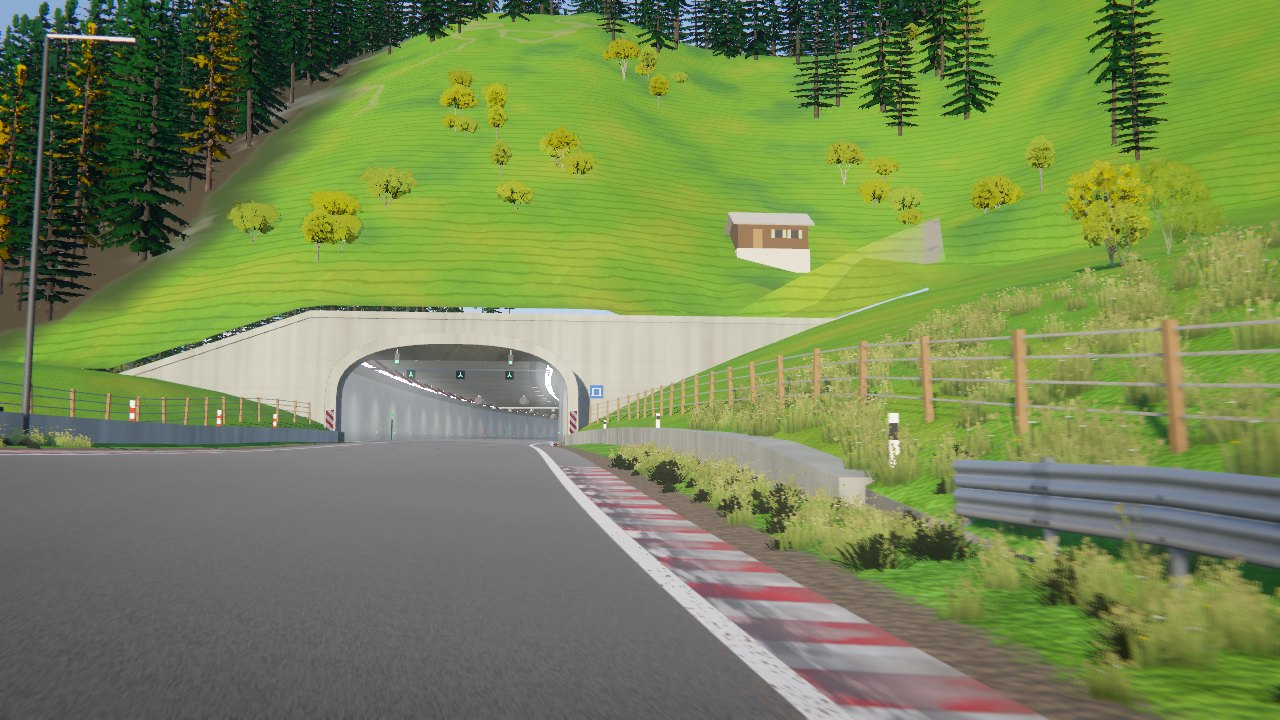
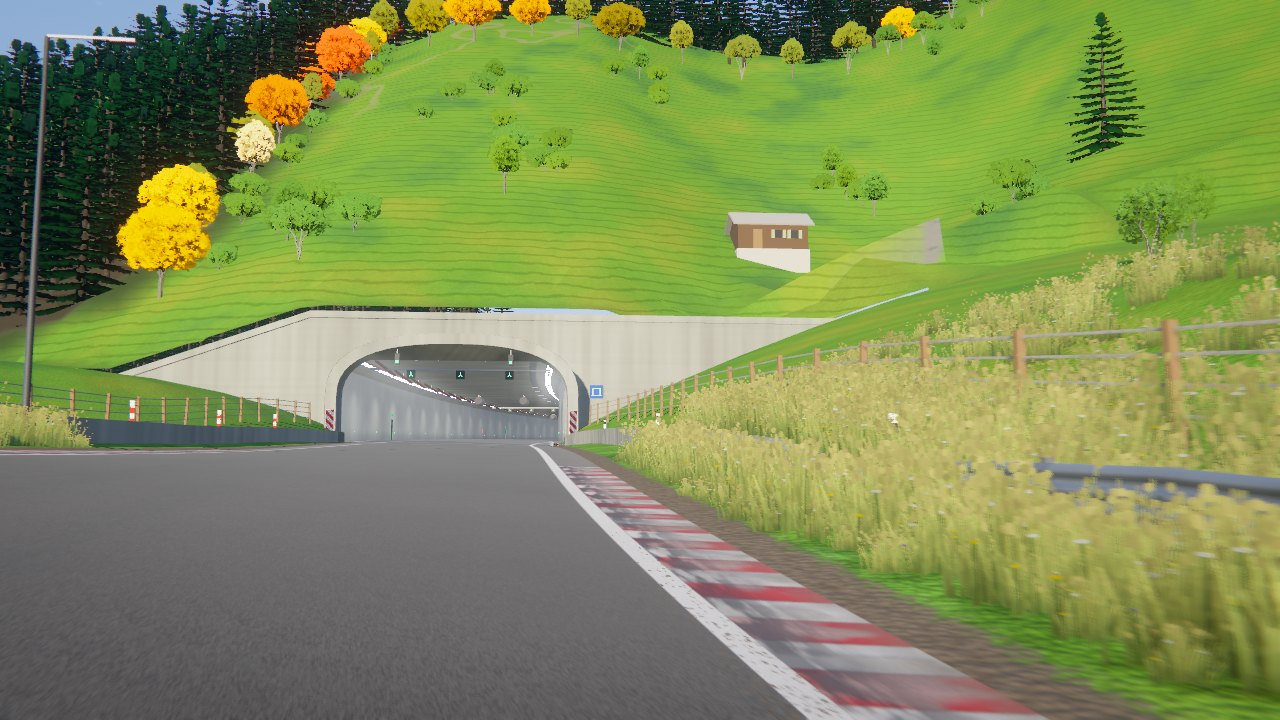
Dreamcar: the approach's spruce wood a dense dark mass with a soft autumn edge, a wall of grass on the verge, no tyres on the meadow
The lead's third round on R1. The spruce wood and the stand on the crest are
a close lattice of wide, skirted, dark trees (addTree's new slim, sink and
tone; no larch), edged with the circuit's autumn broadleaves and hazel; four
single skirted spruces remain on the meadow; the bushes are a mid green. A
taller, denser band of seed-headed grass stands from the verge's outer edge to
the fence, and the circuit's dark tufts are left out there. The low walls are
the portal's concrete; the tyre wall no longer runs onto the approach.
CLAUDE.md is as it was.

Claude-Session: https://claude.ai/code/session_01Wk7hSoYS2YpKJEfRQJQQPF

diff --git a/03-dreamcar/src/assets/world/forest.js b/03-dreamcar/src/assets/world/forest.js
@@ -325,7 +325,7 @@ export function createForest({ renderer, track, terrain, tier, caps = null, cove
    *   heights times this, or height: [lo, hi] its own range (m); detail: how far out it keeps its finer levels of
    *   detail (1: the tier's distances; trees behind others need less); lean: [x, z, rad] leaning that way by so much
    */
-  function addTree(x, y, z, species, { road, turned, inside, young = 1, height = null, detail = 1, lean = null, slim = 1 }) {
+  function addTree(x, y, z, species, { road, turned, inside, young = 1, height = null, detail = 1, lean = null, slim = 1, tone = null, sink = 0 }) {
     const data = SPECIES_DATA[SPECIES[species]];
     const variants = VARIANTS_OF[species];
     const variant = variants[plantRng.int(variants.length)];
@@ -337,7 +337,9 @@ export function createForest({ renderer, track, terrain, tier, caps = null, cove
     const ready = turned * data.turns;
     const roll = plantRng.next();
     const turn = data.autumn.length ? (roll < ready ? 0.75 + 0.25 * plantRng.next() : ready * 0.35 * plantRng.next()) : 0;
-    trees.push({ x, y, z, variant, h, rank: plantRng.next(), road, turned: turn, inside, detail, lean, slim });
+    // (tone: its tint times this, rgb; sink: this share of its height stands under the ground, so that a conifer's
+    // skirt reaches the grass and no bare stem shows: the approach to the tunnel)
+    trees.push({ x, y: y - sink * h, z, variant, h, rank: plantRng.next(), road, turned: turn, inside, detail, lean, slim, tone });
     occupy(x, z);
   }
   const point = new THREE.Vector3();
@@ -623,7 +625,8 @@ export function createForest({ renderer, track, terrain, tier, caps = null, cove
   // groups of spruce and a few green broadleaves on the hillside over the portal.
   for (const A of approachesOf(track)) {
     const SPRUCE = SPECIES.indexOf('spruce');
-    const LARCH = SPECIES.indexOf('larch');
+    /** The meadow's bushes: a mid green (the circuit's broadleaf greens lean to yellow; here only its autumn trees are yellow). */
+    const MID = [0.6, 1, 1.05];
     track.pointAt(A.s0, 0, point);
     const cx = point.x;
     const cz = point.z;
@@ -648,51 +651,62 @@ export function createForest({ renderer, track, terrain, tier, caps = null, cove
       if (y < lakeLevel + 0.5) return;
       addTree(point.x, y - 0.25, point.z, species, { road: false, turned: 0, inside: 0.4, detail: 0.6, ...o });
     };
-    // the spruce wood: a jittered lattice over where approach.js says it stands
+    // The spruce wood: a dense dark mass, as the photograph's. A close jittered lattice over where approach.js says
+    // it stands; every tree wide (half as wide again as it grew), its lowest sixth under the ground so that its skirt
+    // lies on the grass and no stem shows, heights 10 to 22 m over the ground, tinted dark and towards blue; spruce
+    // and fir only (a larch would be a yellow one among them).
+    const DARK = [0.4, 0.5, 0.66];
+    const dense = () => ({ inside: 0.75, detail: 0.5, height: [12, 26], slim: 1.5, sink: 0.16, tone: DARK });
     const W = APPROACH.wood;
     const down = -A.up;
-    for (let u = -APPROACH.open - 12; u < W.behind + 30; u += 6) {
-      for (let d = APPROACH.wide.downBehind - 2; d < W.to + 30; d += 6) {
-        const uu = u + plantRng.range(-2.4, 2.4);
-        const dd = d + plantRng.range(-2.4, 2.4);
+    const fromAt = (u) => (u > 13 ? APPROACH.wide.downBehind + 4 : W.from);
+    for (let u = -APPROACH.open - 12; u < W.behind + 30; u += 4.4) {
+      for (let d = APPROACH.wide.downBehind - 2; d < W.to + 30; d += 4.4) {
+        const uu = u + plantRng.range(-1.8, 1.8);
+        const dd = d + plantRng.range(-1.8, 1.8);
         const roll = plantRng.next();
         const kind = plantRng.next();
         at(uu, down * (track.edgeAt(track.wrap(A.s0 + uu), down) + dd));
         const p = terrain.placeAt(point.x, point.z);
-        if (!p || roll > p.wood * 0.95) continue;
-        plant(uu, down * (track.edgeAt(track.wrap(A.s0 + uu), down) + dd), kind < 0.62 ? SPRUCE : kind < 0.9 ? FIR : LARCH, { inside: 0.7, detail: 0.5 });
+        if (!p || roll > p.wood * 0.97) continue;
+        plant(uu, down * (track.edgeAt(track.wrap(A.s0 + uu), down) + dd), kind < 0.65 ? SPRUCE : FIR, dense());
       }
     }
-    // the hillside (u into the hill, r metres towards the hill from the centre line): groups of spruce
+    // its edge towards the meadow is soft: the circuit's own autumn broadleaves, low, and hazel in front of them
+    for (let u = -APPROACH.open; u < W.behind; u += 8.5) {
+      const uu = u + plantRng.range(-2.5, 2.5);
+      const edge = track.edgeAt(track.wrap(A.s0 + uu), down);
+      const d = fromAt(uu) - 4 + plantRng.range(-1.5, 1.5);
+      at(uu, down * (edge + d));
+      plant(uu, down * (edge + d), pickSpecies('broadleaf', point.y, false, 0.7), { turned: 0.7, inside: 0.1, detail: 0.8, height: [7, 12] });
+      plant(uu + plantRng.range(2, 6), down * (edge + d - plantRng.range(3, 6)), HAZEL, { inside: 0, detail: 0.8, height: [2.2, 3.8], tone: MID });
+    }
+    // the same dark stand along the hill's crest over the bore, so that the skyline is trees and not a bare curve
     const up = A.up;
-    for (const [u, r, n, spread] of [
-      [72, 58, 7, 13],
-      [150, 112, 6, 12],
-      [26, 66, 3, 6],
-      [118, 26, 2, 5],
-      [196, 62, 4, 9],
-      [44, 104, 2, 5],
-      [-28, 74, 3, 7],
-      [-62, 128, 5, 11],
-    ]) {
-      for (let k = 0; k < n; k++) {
-        const a = plantRng.range(0, Math.PI * 2);
-        const q = spread * Math.sqrt(plantRng.next());
-        plant(u + Math.cos(a) * q, up * (r + Math.sin(a) * q), plantRng.next() < 0.75 ? SPRUCE : FIR);
-      }
-    }
-    // a spruce stand along the hill's crest over the bore, so that the skyline is a line of trees and not a bare curve
-    for (let u = 105; u < 235; u += 6.5) {
-      for (let r = -70; r < 95; r += 6.5) {
+    for (let u = 105; u < 235; u += 5) {
+      for (let r = -70; r < 95; r += 5) {
         const keep = plantRng.next();
-        const uu = u + plantRng.range(-2.6, 2.6);
-        const rr = r + plantRng.range(-2.6, 2.6);
+        const uu = u + plantRng.range(-2, 2);
+        const rr = r + plantRng.range(-2, 2);
         const kind = plantRng.next();
         // (thinning towards its lower edge and its ends: a ragged front, not a hedge)
-        const edge = Math.min((uu - 105) / 30, (235 - uu) / 20, (rr + 70) / 25, (95 - rr) / 30);
-        if (keep > Math.min(1, Math.max(0.12, edge))) continue;
-        plant(uu, up * rr, kind < 0.7 ? SPRUCE : FIR, { inside: 0.7, detail: 0.5 });
+        const edge = Math.min((uu - 105) / 22, (235 - uu) / 20, (rr + 70) / 25, (95 - rr) / 30);
+        if (keep > Math.min(1, Math.max(0.15, edge))) continue;
+        plant(uu, up * rr, kind < 0.7 ? SPRUCE : FIR, dense());
       }
+    }
+    for (let r = -62; r < 88; r += 9) {
+      const rr = r + plantRng.range(-3, 3);
+      plant(99 + plantRng.range(-4, 3), up * rr, pickSpecies('broadleaf', 60, false, 0.6), { turned: 0.6, inside: 0.1, detail: 0.8, height: [6, 10] });
+    }
+    // four single spruces on the meadow, each full and skirted to the grass
+    for (const [u, r] of [
+      [28, 68],
+      [86, 96],
+      [-44, 92],
+      [132, 44],
+    ]) {
+      plant(u, up * r, SPRUCE, { inside: 0, detail: 1, height: [15, 21], slim: 1.5, sink: 0.14, tone: [0.5, 0.6, 0.72] });
     }
     // and low growth in clumps where the meadow folds: hazel bushes with a young broadleaf or two among them (short,
     // branched from near the ground, green). No tall single trees on the open meadow.
@@ -712,7 +726,7 @@ export function createForest({ renderer, track, terrain, tier, caps = null, cove
         const a = plantRng.range(0, Math.PI * 2);
         const q = spread * Math.sqrt(plantRng.next());
         const young = plantRng.next() < 0.3;
-        plant(u + Math.cos(a) * q * 1.6, up * (r + Math.sin(a) * q), young ? (plantRng.next() < 0.5 ? LIME : HORNBEAM) : HAZEL, young ? { inside: 0, detail: 1, height: [4.5, 7] } : { inside: 0, detail: 1, height: [2.4, 4.2] });
+        plant(u + Math.cos(a) * q * 1.6, up * (r + Math.sin(a) * q), young ? (plantRng.next() < 0.5 ? LIME : HORNBEAM) : HAZEL, young ? { inside: 0, detail: 1, height: [4.5, 7], tone: MID } : { inside: 0, detail: 1, height: [2.4, 4.2], tone: MID });
       }
     }
   }
@@ -759,7 +773,7 @@ export function createForest({ renderer, track, terrain, tier, caps = null, cove
       const hue = tintRng.range(-1, 1) * data.hue;
       const green = [data.green[0] * (1 + 0.35 * hue), data.green[1], data.green[2] * (1 - 0.6 * hue)];
       const autumn = data.autumn.length ? data.autumn[tintRng.int(data.autumn.length)] : green;
-      for (let c = 0; c < 3; c++) tints[i * 3 + c] = v * (green[c] + (autumn[c] - green[c]) * t.turned);
+      for (let c = 0; c < 3; c++) tints[i * 3 + c] = v * (green[c] + (autumn[c] - green[c]) * t.turned) * (t.tone ? t.tone[c] : 1);
       places[i * 2] = t.inside;
       places[i * 2 + 1] = t.turned;
       terrain.bakeAt(t.x, t.z, bake, 0);

diff --git a/03-dreamcar/src/assets/world/groundCover.js b/03-dreamcar/src/assets/world/groundCover.js
@@ -33,9 +33,9 @@ const TIER = {
  * side, and their reach (m). The low tier keeps a few, near: the place is not the place without them.
  */
 const MEADOW = {
-  low: { grass: 2.5, reach: 30 },
-  medium: { grass: 12, reach: 42 },
-  high: { grass: 16, reach: 52 },
+  low: { grass: 2.5, reach: 30, wall: 2 },
+  medium: { grass: 12, reach: 42, wall: 10 },
+  high: { grass: 16, reach: 52, wall: 14 },
 };
 
 /** A linear colour as a canvas colour. */
@@ -54,13 +54,13 @@ function meadowTexture(rng) {
   ctx.lineCap = 'round';
   const third = size / 3;
   const mix = (a, b, k) => a.map((v, i) => v + (b[i] - v) * k);
-  const STRAW = [0.5, 0.44, 0.17];
+  const STRAW = [0.66, 0.56, 0.2];
   for (let col = 0; col < 3; col++) {
     const cx = (col + 0.5) * third;
     const blades = col === 1 ? 46 : 36;
     for (let k = 0; k < blades; k++) {
       const x = cx + rng.range(-1, 1) * rng.range(4, third * 0.4);
-      const tall = k % 4 === 0;
+      const tall = k % 3 === 0;
       const hgt = (tall ? rng.range(0.74, 0.97) : rng.range(0.3, 0.72)) * size * (col === 1 ? 0.8 : 1);
       const bend = (x - cx) * rng.range(0.1, 0.5) + rng.range(-7, 7);
       const v = rng.range(0.75, 1.3);
@@ -82,9 +82,9 @@ function meadowTexture(rng) {
       }
       if (tall) {
         // a seed head: a long pale straw ear at the tip
-        ctx.fillStyle = css(mix(STRAW, GRASS.alpSeed, rng.range(0, 0.5)), rng.range(0.8, 1.2));
+        ctx.fillStyle = css(mix(STRAW, GRASS.alpSeed, rng.range(0.1, 0.4)), rng.range(0.85, 1.15));
         ctx.beginPath();
-        ctx.ellipse(px, py + 5, 1.9, rng.range(6, 11), Math.atan2(bend, hgt) * 0.6, 0, Math.PI * 2);
+        ctx.ellipse(px, py + 5, 2.1, rng.range(7, 12), Math.atan2(bend, hgt) * 0.6, 0, Math.PI * 2);
         ctx.fill();
       }
     }
@@ -400,7 +400,9 @@ export function createGroundCover({ track, terrain, tier, rng, atmosphere, unifo
         // (finish lane) the grass's own green (groundMaterial.js GRASS), a few tufts gone to straw
         const dry = r.next() ** 2;
         const tint = GRASS.tuft.map((c, k) => (c + (GRASS.tuftDry[k] - c) * dry) * v);
-        grassItems.push(make(point.x, g.y - 0.03, point.z, r.range(0, Math.PI), [h * 2.2, h, h * 2.2], tint, h));
+        const tuft = make(point.x, g.y - 0.03, point.z, r.range(0, Math.PI), [h * 2.2, h, h * 2.2], tint, h);
+        // (ref lane: the circuit's own dark tufts give way to the meadow's tall grass on a tunnel's approach)
+        if (!((terrain.placeAt?.(point.x, point.z)?.meadow ?? 0) > 0.5)) grassItems.push(tuft);
       }
     }
     if (T.bushes) {
@@ -481,6 +483,28 @@ export function createGroundCover({ track, terrain, tier, rng, atmosphere, unifo
           if (!ownStretch(sw, point.x, point.z)) continue;
           const h = (onVerge ? 0.6 : 0.95) * size;
           meadowItems.push(make(point.x, g.y - 0.05, point.z, yaw, [h * 1.5, h, h * 1.5], [shade, shade, shade], h));
+        }
+        // and a wall of it, taller, from the verge's outer edge to the fence: `wall` more a metre (the photograph's
+        // right foreground; on the other side it stands before the low wall)
+        for (let s = A.s0 - APPROACH.open - 20; s < A.s0 - APPROACH.hood.depth - 0.5; s += 1 / MT.wall) {
+          const across = mr.next();
+          const size = mr.range(0.85, 1.3);
+          const yaw = mr.range(0, Math.PI);
+          const shade = mr.range(0.8, 1.5);
+          const keep = mr.next();
+          const sw = track.wrap(s + mr.range(-0.4, 0.4));
+          const edge = track.edgeAt(sw, side);
+          const lat = side * (edge - 1.1 + 3.6 * across);
+          const beyond = Math.max(0, Math.abs(lat) - edge);
+          // (not in the wall itself, nor in the first step behind it)
+          if (beyond > 0 && beyond < terrain.cliffAt(sw, side).top + 0.2) continue;
+          if (keep > meadowAt(A, side, beforeFace(track, A, sw), beyond)) continue;
+          const g = groundAt(sw, lat, side);
+          if (g.surface >= 0 && g.surface !== SURFACE_GRASS) continue;
+          track.pointAt(sw, lat, point);
+          if (!ownStretch(sw, point.x, point.z)) continue;
+          const h = 1.05 * size;
+          meadowItems.push(make(point.x, g.y - 0.05, point.z, yaw, [h * 1.3, h, h * 1.3], [shade, shade, shade], h));
         }
       }
     }

diff --git a/03-dreamcar/src/assets/world/trackside.js b/03-dreamcar/src/assets/world/trackside.js
@@ -18,6 +18,7 @@
 // follow each other in a fixed order that never puts the same two side by
 // side. Faces are big fields of flat colour: at speed they streak cleanly.
 
+import { approachAt } from './approach.js';
 import * as THREE from 'three';
 import { levelFrame } from './furniture.js';
 import { BOARD_COUNT, DESIGN, TALL_COUNT } from './signs.js';
@@ -196,6 +197,8 @@ export function buildTrackside({ track, terrain, tier, b, nb, signs }) {
       const s = track.wrap(s0 + (k + 0.5) * pitch);
       // behind a low wall a tyre wall would not show: none there
       if (kindAt(s, side) === EDGE_WALL) continue;
+      // (ref lane) nor on the meadow of a tunnel's approach, where the edge is a low wall with a fence behind it
+      if ((approachAt(track, s)?.k ?? 0) > 0) continue;
       levelFrame(track, s, frame);
       const p = spot(s, side, track.edgeAt(s, side) + TYRE.r + inset);
       const g = groundAt(p, p.y) - 0.05;

diff --git a/03-dreamcar/src/assets/world/entrance.js b/03-dreamcar/src/assets/world/entrance.js
@@ -139,9 +139,7 @@ export function buildLowWalls({ track, terrain, A, Wb, cast, low }) {
   const step = low ? 4 : 2;
   const s1 = A.s0 - APPROACH.hood.depth;
   for (const side of [1, -1]) {
-    // (the wall on the side away from the hill turns its face from the day's sun: it is cast paler, so that it reads
-    // as a pale kerb under the meadow and not as a dark band)
-    const cap = PALE.map((c) => c * (side === A.up ? 1.05 : 1.7));
+    const cap = PALE.map((c) => c * 1.05);
     const kinds = side > 0 ? track.kindL : track.kindR;
     // from where the edge becomes a wall's (the Track's kind 1: what stands there is solid)
     let s0 = s1;

diff --git a/03-dreamcar/docs/design.md b/03-dreamcar/docs/design.md
@@ -583,11 +583,11 @@ terrain.js, forest.js, groundCover.js, groundMaterial.js read them):
 | | R1 | the build |
 |---|---|---|
 | the land | a mouth set into a hillside | the cutting is gone: from 88 m before the face the ground beyond the solid edges is a meadow, rising 0.45 to 0.55 m per metre on the hill's side (the right), a low shoulder on the other; over the bore the hill climbs 0.6 m per metre to 75 m over the crown (it was a ridge 40 m over it) |
-| at the road's edge | grass to the asphalt, a guard rail | the Track's solid edge is unchanged (a rail to 70 m before the face, a wall's from there): where it is a wall's a low concrete wall 0.8 m high stands on it, the meadow behind and above; the one on the side away from the hill, which turns its face from the sun, is cast paler |
+| at the road's edge | grass to the asphalt, a guard rail | the Track's solid edge is unchanged (a rail to 70 m before the face, a wall's from there): where it is a wall's a low concrete wall 0.8 m high stands on it, of the portal's concrete, the meadow behind and above; no tyre wall stands on the meadow |
 | the portal | a hood with a rounded arch, a level headwall, a wall running down into the grass | a hood 2.6 m deep and 0.8 m thick, its arch upright to 3.4 m and rounded to 7.4 m at the front, falling to the box's own opening at the face (the box is unchanged: 17 m by 6.4 m); a headwall 10 m high, level on the hill's side for 23 m to where the meadow reaches its top, falling 0.36 m per metre on the other for 17 m; pale concrete |
 | the meadow | lush and sunlit, with tone in it: lighter yellow-green rises, darker blue-green hollows, terracettes, a pale path | its own green in the ground's material where the terrain marks it (linear albedo 0.097 0.2 0.043), open from 190 m before the face: yellower on the rises and darker and bluer in the hollows at two scales, terracettes along the contours where it is steep, the mower's swathes where it is not, a few pale trodden paths, the blades' fine noise; no rock, scree or scrub on it |
-| the verge | tall seed-headed grass, flowers | cards of tall grass with straw ears, one in three with a few flowers, on the verge's outer part and for 12 m behind the barrier: 12 a metre of road and side on medium, 2.5 on low |
-| trees | a dense dark spruce stand above left, low round bushes and small broadleaves in clumps along the hollows, single spruces | whatever the forest had planted on the meadow is taken out; a spruce wood on the low side (from 52 m beyond the edge before the face, so that its shade stays off the road, from 20 m behind it) and a spruce stand along the hill's crest over the bore, so the skyline is trees; eight groups of spruce on the hillside; ten clumps of hazel bushes 2.4 to 4.2 m high with young limes and hornbeams of 4.5 to 7 m among them (the existing species, none turned); no tall single tree on the open meadow |
+| the verge | a wall of tall seed-headed grass with pale tops, flowers | cards of tall grass with straw ears, one in three with a few flowers, on the verge's outer part and for 12 m behind the barrier (12 a metre of road and side on medium, 2.5 on low), and a taller wall of it from the verge's outer edge to the fence (10 more a metre, 2 on low); the circuit's own dark tufts and bushes are left out there |
+| trees | a dense dark spruce stand above left, low round bushes and small broadleaves in clumps along the hollows, single spruces | whatever the forest had planted on the meadow is taken out; a spruce wood on the low side (from 52 m beyond the edge before the face, so that its shade stays off the road, from 20 m behind it) and the same along the hill's crest over the bore, so the skyline is trees: a dense dark mass of spruce and fir on a 4.4 m lattice, each tree half as wide again as it grew and sunk a sixth of its height so that its skirt lies on the grass and no stem shows, 10 to 22 m over the ground, tinted dark and towards blue, no larch; its edge towards the meadow is the circuit's own autumn broadleaves, low (6 to 12 m), with hazel in front; four single spruces on the meadow, full and skirted; ten clumps of hazel bushes 2.4 to 4.2 m high with young limes and hornbeams of 4.5 to 7 m among them, tinted a mid green; no tall single tree with a bare stem |
 | the hut | dark timber, grey roof | a chalet 7.2 by 5 m (stone plinth, dark timber, a shingle roof with deep eaves, a door and two shuttered windows) right of and above the portal, and a hay barn higher up; shapes of our own |
 | fence, posts | wire on wooden posts; marker posts | posts every 3.5 m with four wires (7 m and two on low) along the hill's side from 190 m out and along the other wall; black and white marker posts every 24 m; red and white ones on the left wall and red and white boards on the hood's jambs (ours stand at the edges: nothing may stand in the road) |
 | the sign | lamp box, triangle, blue square | the same three on two legs behind the rail 82 m before the face; the triangle and the square each carry an arch of our own drawing; no lettering, no numbers |
@@ -602,11 +602,12 @@ approach to the tunnel"): our asphalt is the circuit's own dark asphalt, a
 third as bright as the photograph's pale grey, and has a red and white kerb
 where the photograph has a white line and gravel; the mouth shows the lit
 box (our tunnel's entrance zone is lit 2.4 times as brightly as its
-interior) where the photograph's is black; our spruces are sunlit from the
-front by a sun 16 degrees up and read three times as bright as the
-photograph's shaded woods, and there is a strip of sky over them where the
-photograph's far hillside goes on up; our broadleaves are the circuit's
-hazels and young limes, yellower than the photograph's bushes; at the game's
+interior) where the photograph's is black; our spruce wood is lit from the
+front by a sun 16 degrees up and reads 1.6 times as bright as the
+photograph's shaded woods and greener, with autumn broadleaves along its
+edge where the photograph has none, and there is a strip of sky over it
+where the photograph's far hillside goes on up; our broadleaves are the circuit's
+hazels and young limes, smaller and sparser than the photograph's bushes; at the game's
 own shutter the picture is streaked by speed (the camera moves with the car
 at 190 km/h: the comparison pair is taken with the shutter cut to a ninth,
 as the screenshot tool does for staged pictures); our portal is twice as large in the picture (the

diff --git a/03-dreamcar/docs/spec.md b/03-dreamcar/docs/spec.md
@@ -486,15 +486,14 @@ before and after the cutting became a meadow:
 
 | tier, t | before: calls, triangles (scene / shadow / probe calls) | after |
 | --- | --- | --- |
-| low, 34 | 136, 295 k (90 / 27 / 10) | 132, 284 k (85 / 27 / 11) |
-| low, 36 | 133, 295 k (84 / 29 / 11) | 137, 298 k (86 / 30 / 12) |
-| medium, 34 | 190, 951 k (123 / 33 / 17) | 169, 838 k (106 / 34 / 12) |
-| medium, 36 | 179, 860 k (110 / 36 / 16) | 181, 881 k (113 / 34 / 17) |
+| low, 34 | 136, 295 k (90 / 27 / 10) | 132, 285 k (85 / 27 / 11) |
+| low, 36 | 133, 295 k (84 / 29 / 11) | 136, 299 k (86 / 30 / 12) |
+| medium, 34 | 190, 951 k (123 / 33 / 17) | 168, 841 k (105 / 34 / 12) |
+| medium, 36 | 179, 860 k (110 / 36 / 16) | 181, 882 k (112 / 34 / 18) |
 
 At t = 34 the wood beside the road is gone (no full or reduced trees in view, where medium drew 17 and 23); at
-t = 36 the meadow's tall grass, its furniture and the nearer bushes add 2 to 4 calls and 3 to 21 k triangles. More
-trees are in view as impostors (two triangles each: 1174 to 1281 on low where there were 409 to 489, 2051 to 2520
-on medium where there were 1248 to 1556), and more of them cast (89 and 145 at t = 36, where 57 and 68 did).
+t = 36 the meadow's tall grass, its furniture and the nearer bushes add 2 to 3 calls and 4 to 22 k triangles. More
+trees are in view as impostors, two triangles each (the spruce wood is a close lattice), and more of them cast.
 
 The still from `?photo=r1` beside photograph R1 (medium, 1280x720, the shutter cut to a ninth; mean colour and
 relative luminance Y of matching regions, each picture's own boxes):
@@ -503,14 +502,14 @@ relative luminance Y of matching regions, each picture's own boxes):
 | --- | --- | --- | --- |
 | hillside meadow | 133 182 43, 0.418 | 138 176 62, 0.371 | 0.89 |
 | portal concrete | 184 198 180, 0.569 | 209 205 189, 0.610 | 1.07 |
-| verge grass | 131 144 15, 0.254 | 107 118 63, 0.182 | 0.72 |
-| spruce wood | 8 33 34, 0.013 | 35 58 35, 0.047 | 3.5 |
+| verge grass | 131 144 15, 0.254 | 122 131 67, 0.217 | 0.85 |
+| spruce wood | 8 33 34, 0.013 | 16 38 30, 0.022 | 1.6 |
 | asphalt | 177 192 197, 0.513 | 117 116 117, 0.176 | 0.34 |
 | the mouth | 14 29 35, 0.014 | 136 137 137, 0.269 | 19 |
 
-The meadow and the concrete are within 15 per cent; the verge is not (the circuit's own dark tufts stand among
-the meadow's); the wood, the asphalt and the mouth are the circuit's own trees, asphalt and tunnel lighting, which
-this place does not change (design.md lists what differs).
+The meadow, the concrete and the verge are within 15 per cent. The wood is dark but still 1.6 times the
+photograph's (hue 145 against 181): it is lit from the front by a low sun. The asphalt and the mouth are the
+circuit's own asphalt and tunnel lighting, which this place does not change (design.md lists what differs).
 
 None of these was measured on a real GPU or phone.
 

diff --git a/03-dreamcar/docs/techniques.md b/03-dreamcar/docs/techniques.md
@@ -639,7 +639,12 @@ laid its shade over the road and the left meadow. Behind the face (where
 shadows fall into the hill) it comes to 20 m, and a stand along the crest
 over the bore makes the skyline. On the open meadow there are only clumps of
 hazel and young broadleaves given their own low heights: a full-grown
-broadleaf alone on a slope is a crown on a bare stem.
+broadleaf alone on a slope is a crown on a bare stem. The spruce wood is the
+existing spruce and fir made a mass by three numbers a tree may now carry
+(`addTree`): `slim` 1.5 (half as wide again), `sink` (a sixth of its height
+under the ground: the skirt lies on the grass and no stem shows) and `tone`
+(its tint times a dark blue-green), on a lattice of 4.4 m so that the crowns
+overlap. No species and no tree elsewhere is changed.
 
 **The furniture** (meadow.js) is one mesh of vertex colours and one matte
 material: fence posts and wires, marker posts, the sign (boxes and

diff --git a/CLAUDE.md b/CLAUDE.md
@@ -112,12 +112,6 @@ to GitHub Pages by `.github/workflows/pages.yml` on every push to `main`.
   light of each time of day (`src/assets/world/lighting.js`: sky, fog, lamps,
   wetness, the car's lamps, exposure and the grade all read its tables), and
   the numbers of the run (`src/game/config.js`).
-- The approach to the tunnel is a meadow after a photograph (R1,
-  `docs/design.md`, "The approach to the tunnel"). Its numbers are defined
-  once (`src/assets/world/approach.js`: read by the terrain, the tunnel's
-  entrance, the forest, the ground cover and the meadow's furniture) and it is
-  made entirely beyond the solid edges. Stage `?photo=r1` beside the
-  photograph when anything there changes.
 - Layers: `engine/` knows nothing about cars or roads; `assets/` builds what
   is visible and may import `engine/`, never `game/`; `game/` is the run
   (physics, rules, cameras, HUD, sound, flow).

diff --git a/03-dreamcar/docs/tools.md b/03-dreamcar/docs/tools.md
@@ -257,7 +257,7 @@ machine without a GPU, and only what is listed here.
   game's shutter, and with the shutter cut to a ninth for the pair) and at
   `low` 960x540, put beside photograph R1 as a pair and a 50/50 overlay, with
   mean colour and luminance measured in six matching regions (spec.md has the
-  table: meadow and concrete within 15 per cent, the verge at 0.72, the wood,
+  table: meadow, concrete and verge within 15 per cent, the wood at 1.6,
   the asphalt and the mouth far off and why); the chase view at `medium`
   1280x720 at t = 36 and upright at 393x852 at t = 34, 35 and 36, before and
   after; at `low` by day at t = 34, 36, 38 and 43.5 (the exit, unchanged), at
